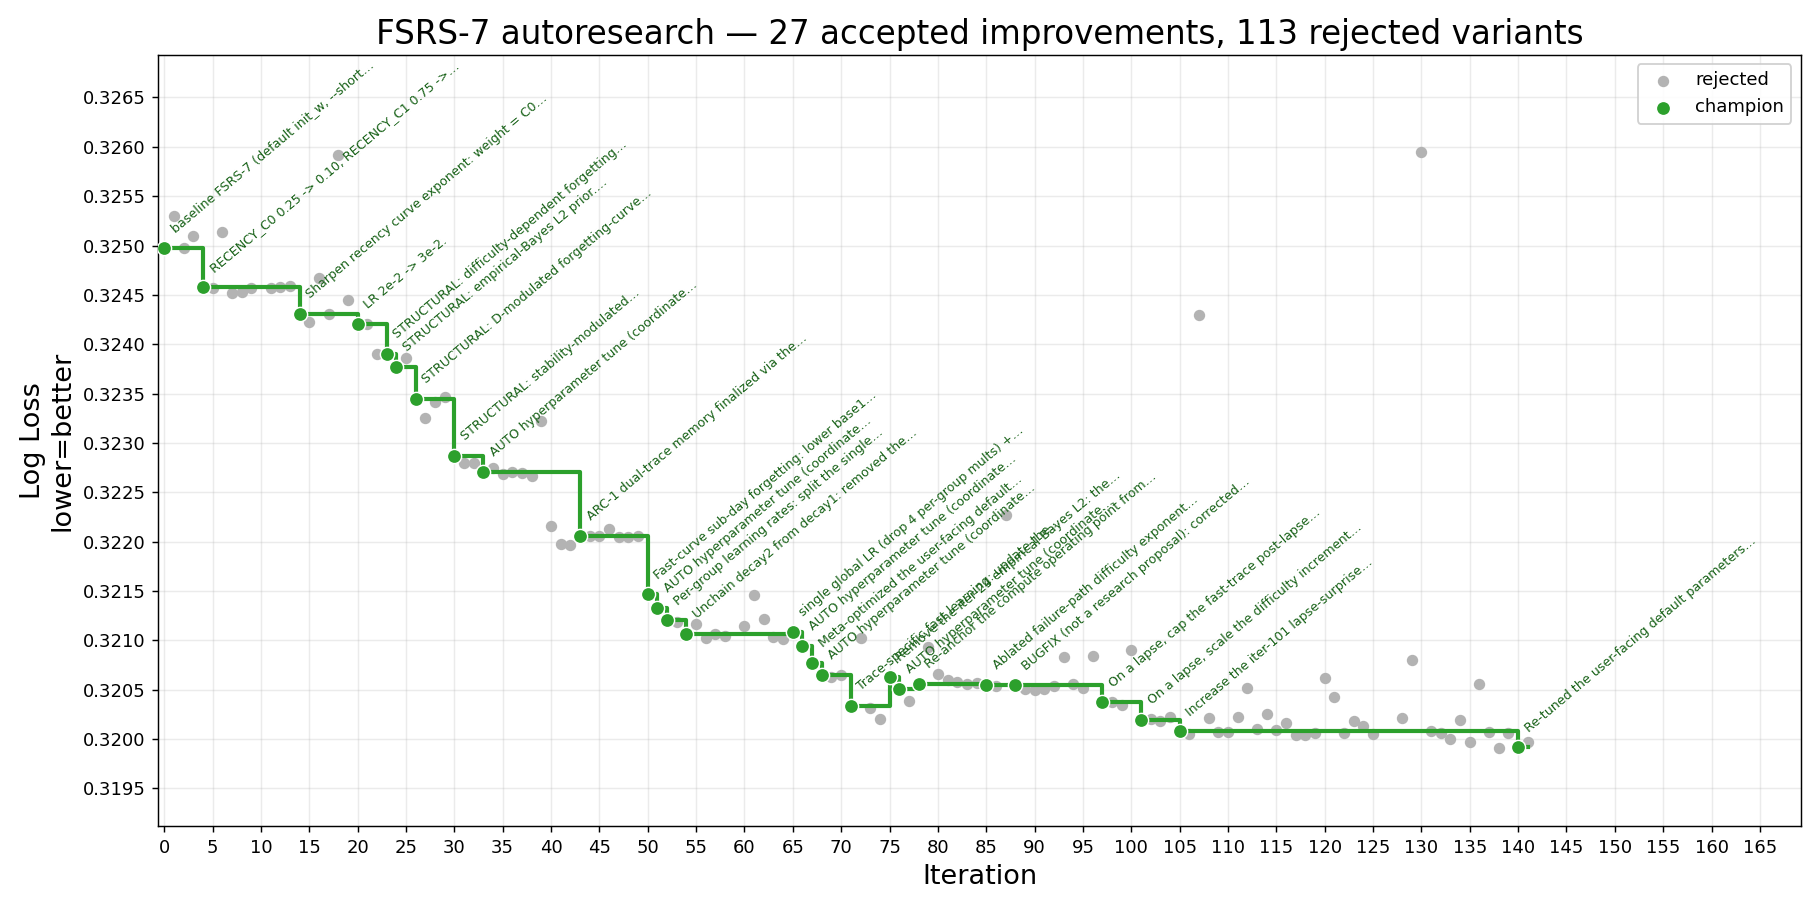
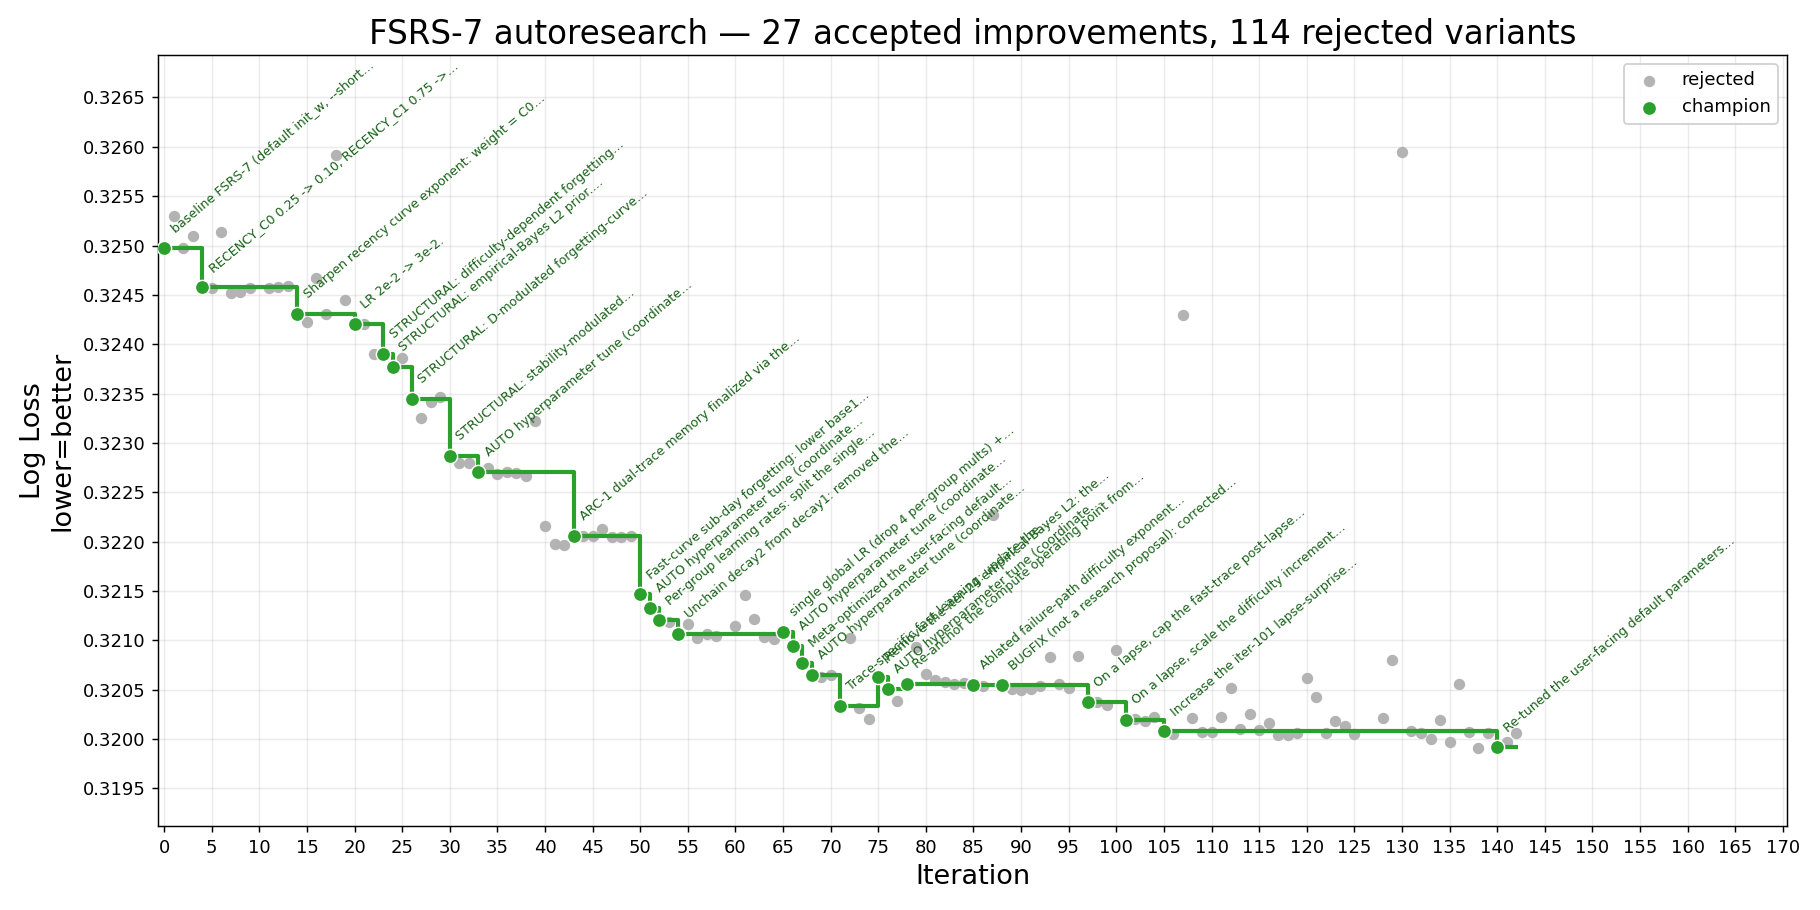
iter-142 (rejected): fixed post-lapse difficulty->stability coupling (d/5)^-0.3
new_s_fail *= (d/5)^(-0.3), re-introducing the iter-85-ablated post-lapse
D->S factor as a fixed coefficient. by_user 0.31991476 -> 0.32006612
(WORSE by 1.51e-4). Hypothesis validated on target: Again improved -4.20e-4
(lower post-lapse S -> lower predicted R -> less re-lapse loss), but Good
+3.25e-4 (dominant), Easy +2.29e-4, Hard +9.7e-5 regressed -- after a lapse
most reviews succeed (relearns), and lowering post-lapse S under-predicts
their R. Exact mirror of iter-141; together they show the D->S magnitude is
saturated. Reverted to iter-140 champion.

diff --git a/result/history.md b/result/history.md
@@ -1,6 +1,6 @@
 # FSRS-7 autoresearch — iteration history
 
-_141 record(s). Generated from `history.jsonl` — do not edit by hand._
+_142 record(s). Generated from `history.jsonl` — do not edit by hand._
 
 | # | Time (UTC) | Thresh. | LL before | LL after | Δ LL | Cx before | Cx after | Δ Cx % | Status | Summary |
 |--:|---|---:|---:|---:|---:|---:|---:|---:|---|---|
@@ -145,3 +145,4 @@ _141 record(s). Generated from `history.jsonl` — do not edit by hand._
 | 139 | 2026-06-05T19:57:59 | 0.0001 | 0.32008 | 0.32006 | +0.00001 | 16,930 | 16,930 | +0.00% | rejected | Swept the lapse-surprise pivot P in fsrs7_next_d (delta_d*=1+1*(retention-P) on lapse) over P=0.80..0.95 step 0.01. |
 | 140 | 2026-06-06T11:01:15 | 0.0001 | 0.32008 | 0.31991 | +0.00016 | 16,932 | 16,932 | +0.00% | accepted | Re-tuned the user-facing default parameters (FSRS7_DEFAULT_35_VALUES) via central_diff_init_w 50-step 0-epoch meta-opt for the current model. |
 | 141 | 2026-06-06T11:31:06 | 0.0001 | 0.31991 | 0.31997 | -0.00005 | 16,932 | 16,936 | +0.02% | rejected | Extend the iter-101/105 R-surprise D-update weighting from lapses only to all ratings (success surprise = 0.9-retention). |
+| 142 | 2026-06-06T11:41:13 | 0.0001 | 0.31991 | 0.32007 | -0.00015 | 16,932 | 16,944 | +0.07% | rejected | Re-introduce a fixed (non-trainable) post-lapse difficulty->stability coupling: new_s_fail *= (d/5)^(-0.3). |
